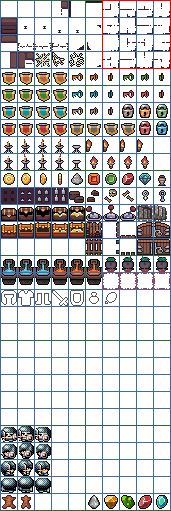
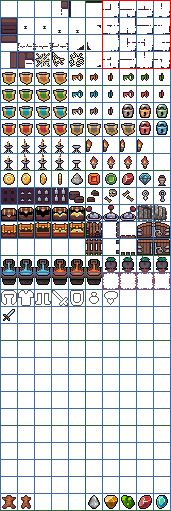
Added first weapon.

diff --git a/LuckNGold/World/Items/WeaponFactory.cs b/LuckNGold/World/Items/WeaponFactory.cs
@@ -1,7 +1,6 @@
 using LuckNGold.World.Items.Components;
 using LuckNGold.World.Items.Enums;
 using LuckNGold.World.Items.Interfaces;
-using LuckNGold.World.Items.Primitives;
 using LuckNGold.World.Monsters.Enums;
 using SadRogue.Integration;
 
@@ -9,24 +8,9 @@ namespace LuckNGold.World.Items;
 
 static class WeaponFactory
 {
-    public static RogueLikeEntity ArmingSword(Material material)
-    {
-        var overheadSwingDamage = new AttackDamage(PhysicalDamage.Slashing(3, 6), ElementalDamage.None);
-        var sideSwingDamage = new AttackDamage(PhysicalDamage.Slashing(2, 5), ElementalDamage.None);
-        var thrustDamage = new AttackDamage(PhysicalDamage.Piercing(1, 4), ElementalDamage.None);
-
-        var attacks = new Dictionary<MeleeAttackType, IAttackDamage>()
-        {
-            { MeleeAttackType.OverheadSwing, overheadSwingDamage },
-            { MeleeAttackType.DiagonalSideSwing, sideSwingDamage },
-            { MeleeAttackType.ForwardThrust, thrustDamage }
-        };
-
-        string name = $"{material} Arming Sword";
-
-        var sword = Sword(name, material, attacks);
-        return sword;
-    }
+    public static RogueLikeEntity ArmingSword(Material material, 
+        Dictionary<MeleeAttackType, IAttackDamage> attacks) =>
+        Sword($"{material} Arming Sword", material, attacks);
 
     static RogueLikeEntity Sword(string name, Material material,
         Dictionary<MeleeAttackType, IAttackDamage> attacks)

diff --git a/LuckNGold/Generation/Items/Weapons/Swords/ArmingSword.cs b/LuckNGold/Generation/Items/Weapons/Swords/ArmingSword.cs
@@ -1,0 +1,26 @@
+using LuckNGold.World.Items.Enums;
+using LuckNGold.World.Items.Interfaces;
+using LuckNGold.World.Items.Primitives;
+
+namespace LuckNGold.Generation.Items.Weapons.Swords;
+
+record ArmingSword : Sword
+{
+    public ArmingSword(Point position, Material material) : base(position, material, 
+        new Dictionary<MeleeAttackType, IAttackDamage> 
+        {
+            { 
+                MeleeAttackType.OverheadSwing,
+                new AttackDamage(PhysicalDamage.Slashing(3, 6), ElementalDamage.None)
+            },
+            { 
+                MeleeAttackType.DiagonalSideSwing,
+                new AttackDamage(PhysicalDamage.Slashing(2, 5), ElementalDamage.None)
+            },
+            { 
+                MeleeAttackType.ForwardThrust,
+                new AttackDamage(PhysicalDamage.Piercing(1, 4), ElementalDamage.None)
+            }
+        })
+    { }
+}

diff --git a/LuckNGold/World/Map/GameMap.Items.cs b/LuckNGold/World/Map/GameMap.Items.cs
@@ -1,4 +1,6 @@
 using LuckNGold.Generation.Items;
+using LuckNGold.Generation.Items.Weapons;
+using LuckNGold.Generation.Items.Weapons.Swords;
 using LuckNGold.World.Items;
 using SadRogue.Integration;
 
@@ -30,5 +32,11 @@ partial class GameMap
     public static RogueLikeEntity CreateItem(Item item) =>
         item is Key key ? ItemFactory.Key(key.Material) :
         item is Coin ? ItemFactory.Coin() :
+        item is Weapon weapon ? CreateWeapon(weapon) :
         throw new ArgumentException("Item not implemented.");
+
+    static RogueLikeEntity CreateWeapon(Weapon weapon) =>
+        weapon is ArmingSword armingSword ? WeaponFactory.ArmingSword(armingSword.Material, 
+            armingSword.Attacks) :
+        throw new ArgumentException("Weapon not implemented.");
 }

diff --git a/LuckNGold/Generation/FirstRoomGenerator.cs b/LuckNGold/Generation/FirstRoomGenerator.cs
@@ -5,7 +5,9 @@ using GoRogue.Random;
 using LuckNGold.Generation.Decors;
 using LuckNGold.Generation.Furnitures;
 using LuckNGold.Generation.Items;
+using LuckNGold.Generation.Items.Weapons.Swords;
 using LuckNGold.Generation.Map;
+using LuckNGold.World.Items.Enums;
 
 namespace LuckNGold.Generation;
 
@@ -47,6 +49,11 @@ internal class FirstRoomGenerator() : GenerationStep("FirstRoom",
             var coin = new Coin(Point.None);
             chest.Items.Add(coin);
         }
+
+        // Sample sword
+        var swordPosition = firstRoom.Area.Center + Direction.Up;
+        var sword = new ArmingSword(swordPosition, Material.MoonSteel);
+        firstRoom.AddEntity(sword);
 
         yield break;
     }

diff --git a/LuckNGold/Generation/Items/Weapons/MeleeWeapon.cs b/LuckNGold/Generation/Items/Weapons/MeleeWeapon.cs
@@ -1,0 +1,15 @@
+using LuckNGold.World.Items.Enums;
+using LuckNGold.World.Items.Interfaces;
+
+namespace LuckNGold.Generation.Items.Weapons;
+
+abstract record MeleeWeapon : Weapon
+{
+    public Dictionary<MeleeAttackType, IAttackDamage> Attacks { get; init; }
+
+    public MeleeWeapon(Point position, Material material,
+        Dictionary<MeleeAttackType, IAttackDamage> attacks) : base(position, material)
+    {
+        Attacks = attacks;
+    }
+}

diff --git a/LuckNGold/Generation/Items/Weapons/Swords/Sword.cs b/LuckNGold/Generation/Items/Weapons/Swords/Sword.cs
@@ -1,0 +1,13 @@
+using LuckNGold.World.Items.Enums;
+using LuckNGold.World.Items.Interfaces;
+
+namespace LuckNGold.Generation.Items.Weapons.Swords;
+
+abstract record Sword : MeleeWeapon
+{
+    public Sword (Point position, Material material,
+        Dictionary<MeleeAttackType, IAttackDamage> attacks) : base(position, material, attacks)
+    {
+
+    }
+}

diff --git a/LuckNGold/Generation/Items/Weapons/Weapon.cs b/LuckNGold/Generation/Items/Weapons/Weapon.cs
@@ -1,0 +1,13 @@
+using LuckNGold.World.Items.Enums;
+
+namespace LuckNGold.Generation.Items.Weapons;
+
+abstract record Weapon : Item
+{
+    public Material Material { get; init; }
+
+    public Weapon(Point position, Material material) : base(position)
+    {
+        Material = material;
+    }
+}

diff --git a/LuckNGold/World/Items/Enums/Material.cs b/LuckNGold/World/Items/Enums/Material.cs
@@ -13,5 +13,7 @@ enum Material
     Bone,
     Leather,
     Wood,
-    Iron
+    Iron,
+
+    MoonSteel,
 }
